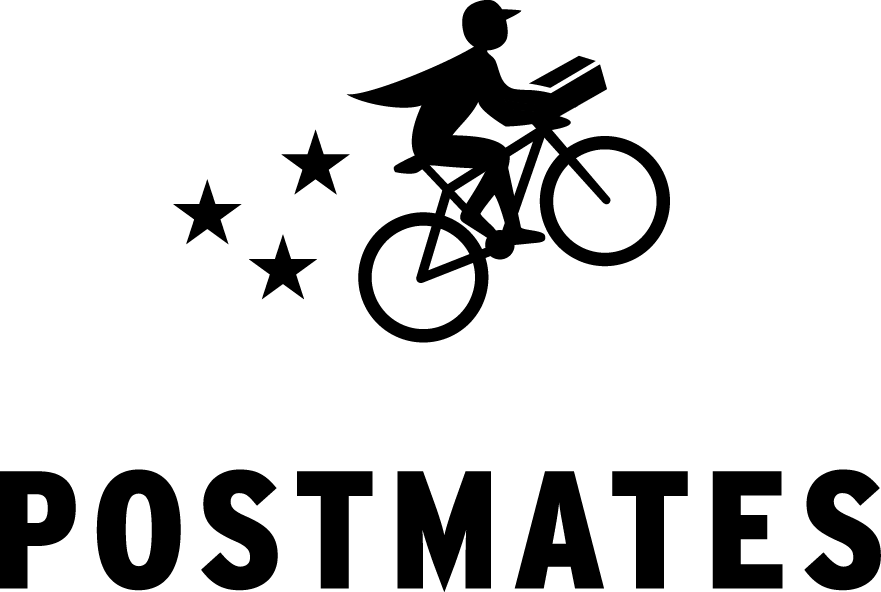
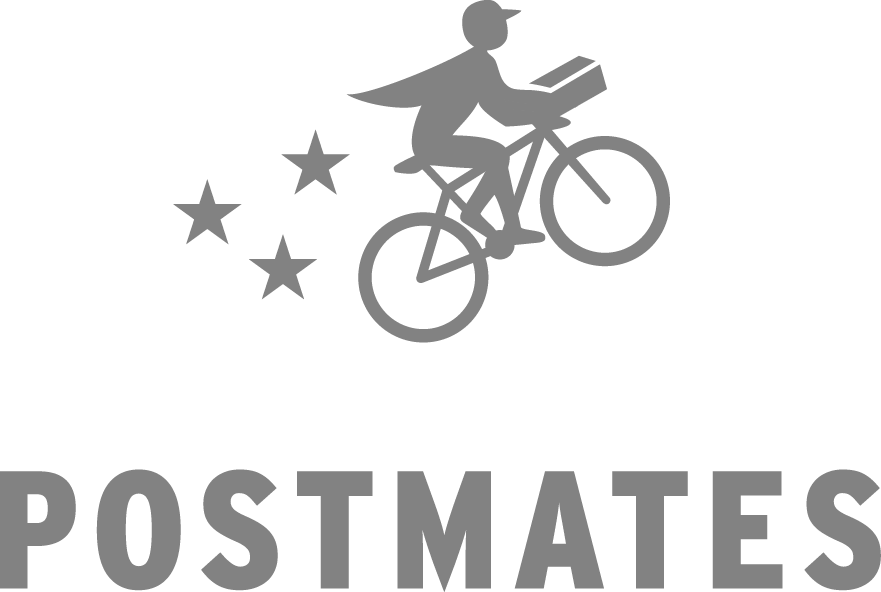
painted pngs white, advantage section :sparkles:

diff --git a/client/src/pages/Home/Home.js b/client/src/pages/Home/Home.js
@@ -26,8 +26,20 @@ class Home extends Component {
                         <img src='./assets/images/google.png'></img>
                     </div>
                 </div>
-                <div class='lower'>
-                    <h1>Woo waaaaa</h1>
+                <div className='advantage-block flexbox justify-content-space-evenly'>
+                    <div className='item'>
+                        <p className='advantage-block__title'>Over 100 restaurants</p>
+                        <p className='block__paragraph'>Take care of your menus easier than ever.</p>
+                    </div>
+                    <div className='item'>
+                        <p className='advantage-block__title'>Convenient and easy</p>
+                        <p className='block__paragraph'>Never login to another service to udpate the same things.</p>
+                    </div>
+
+                    <div className='item'>
+                        <p className='advantage-block__title'>Keep customers happy</p>
+                        <p className='block__paragraph'>Never again will customers see wrong prices listed.</p>
+                    </div>
                 </div>
             </section>
         );

diff --git a/client/src/styles/components.scss b/client/src/styles/components.scss
@@ -43,6 +43,10 @@ a {
     justify-content: space-evenly;
 }
 
+.justify-content-center {
+    justify-content: center;
+}
+
 .block__paragraph {
     margin: 0 0 41px;
     max-width: 415px;
@@ -60,6 +64,14 @@ a {
     font-weight: 700;
     text-shadow: none;
     letter-spacing: -0.3px;
+}
+
+.advantage-block__title {
+    margin-bottom: 16px;
+    color: $text;
+    font-size: 20px;
+    font-weight: bold;
+    letter-spacing: -0.5px;
 }
 
 .block__btn {

diff --git a/client/src/styles/home.scss b/client/src/styles/home.scss
@@ -29,4 +29,16 @@
             }
         }   
     }
+
+    .advantage-block {
+        background-color: $secondary;
+        color: $text;
+        padding: 3em 5em;
+        border-bottom: 1px solid;
+        border-color: #9b9b9b;
+    }
+
+    .item  {
+        max-width: 22em;
+    }
 }
